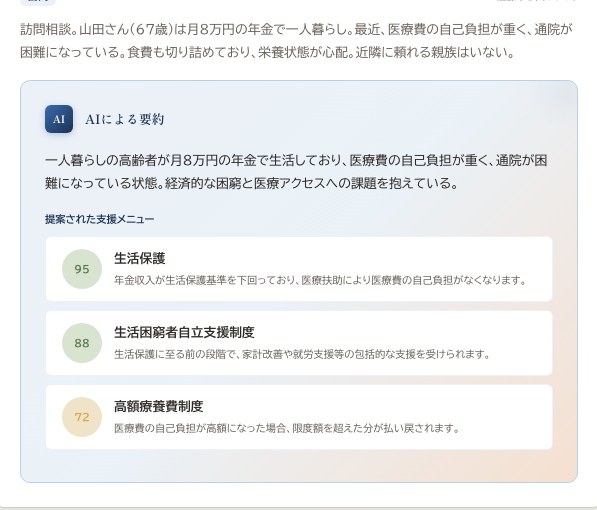
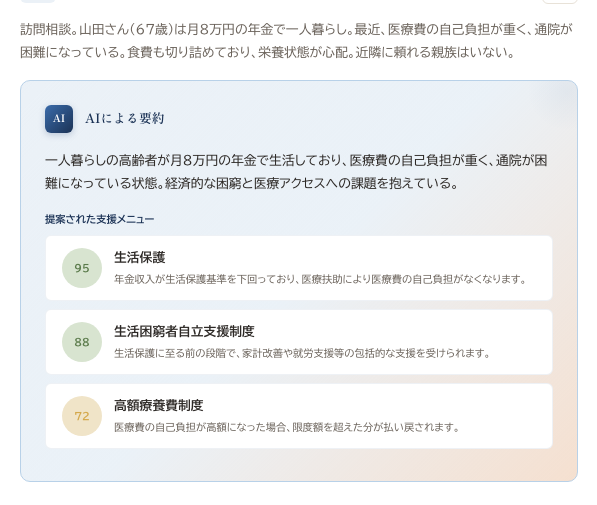
fix: ヘルプスクリーンショット生成スクリプトのstrict mode違反を修正（#148, #146） (#215)
AI分析結果テストで.ai-panelが複数相談記録により2要素に解決される問題を修正。
.first()で最初のパネルを明示的に指定。全13テストパス確認済み。
デモデータによるスクリーンショット12枚を再生成。

diff --git a/e2e/generate-help-screenshots.ts b/e2e/generate-help-screenshots.ts
@@ -125,13 +125,13 @@ test.describe("ヘルプ用スクリーンショット生成", () => {
   test("7. AI分析結果", async ({ page }) => {
     await page.getByText("山田 花子").click();
     await page.locator(".consultation-timeline").waitFor({ timeout: 10000 });
-    // AI分析結果パネルが表示されるまで待つ
-    await page.locator(".ai-panel").waitFor({ timeout: 10000 });
+    // AI分析結果パネルが表示されるまで待つ（複数相談記録があるため .first() を使用）
+    const aiPanel = page.locator(".ai-panel").first();
+    await aiPanel.waitFor({ timeout: 10000 });
     // AI分析結果セクションまでスクロール
-    await page.locator(".ai-panel").scrollIntoViewIfNeeded();
+    await aiPanel.scrollIntoViewIfNeeded();
     await page.waitForTimeout(300);
     // AI分析結果部分のみをキャプチャ（要約+支援メニュー提案）
-    const aiPanel = page.locator(".ai-panel").first();
     // パネルの周囲コンテキストも含めてスクリーンショット
     // まずAIパネルの位置を取得して、その領域をページスクリーンショットでクリップ
     const box = await aiPanel.boundingBox();
